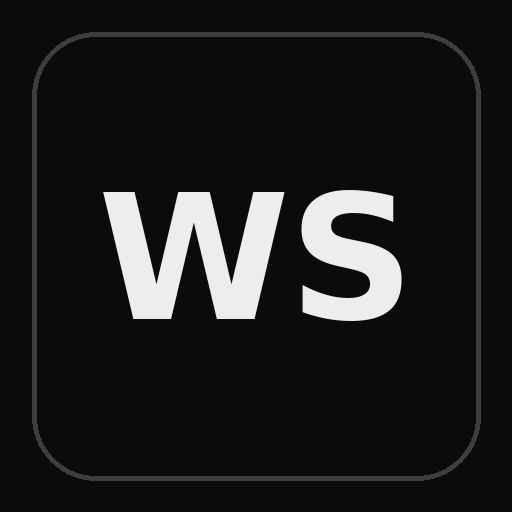
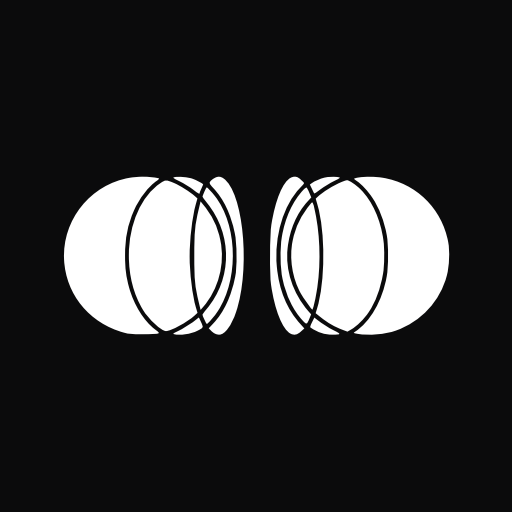
Add files via upload

Changed region(s): [[0.125, 0.3438, 0.875, 0.6562], [0.0625, 0.0625, 0.9375, 0.9375]]

diff --git a/sw.js b/sw.js
@@ -2,7 +2,7 @@
    Стратегия network-first: всегда пробуем сеть (чтобы обновления
    подхватывались сразу), при офлайне отдаём кэшированную оболочку.
    При изменении файлов повышай версию CACHE — старый кэс удалится сам. */
-const CACHE = 'ws-os-v10';
+const CACHE = 'ws-os-v11';
 const SHELL = ['./', './index.html', './manifest.webmanifest', './icon-192.png'];
 
 self.addEventListener('install', (e) => {